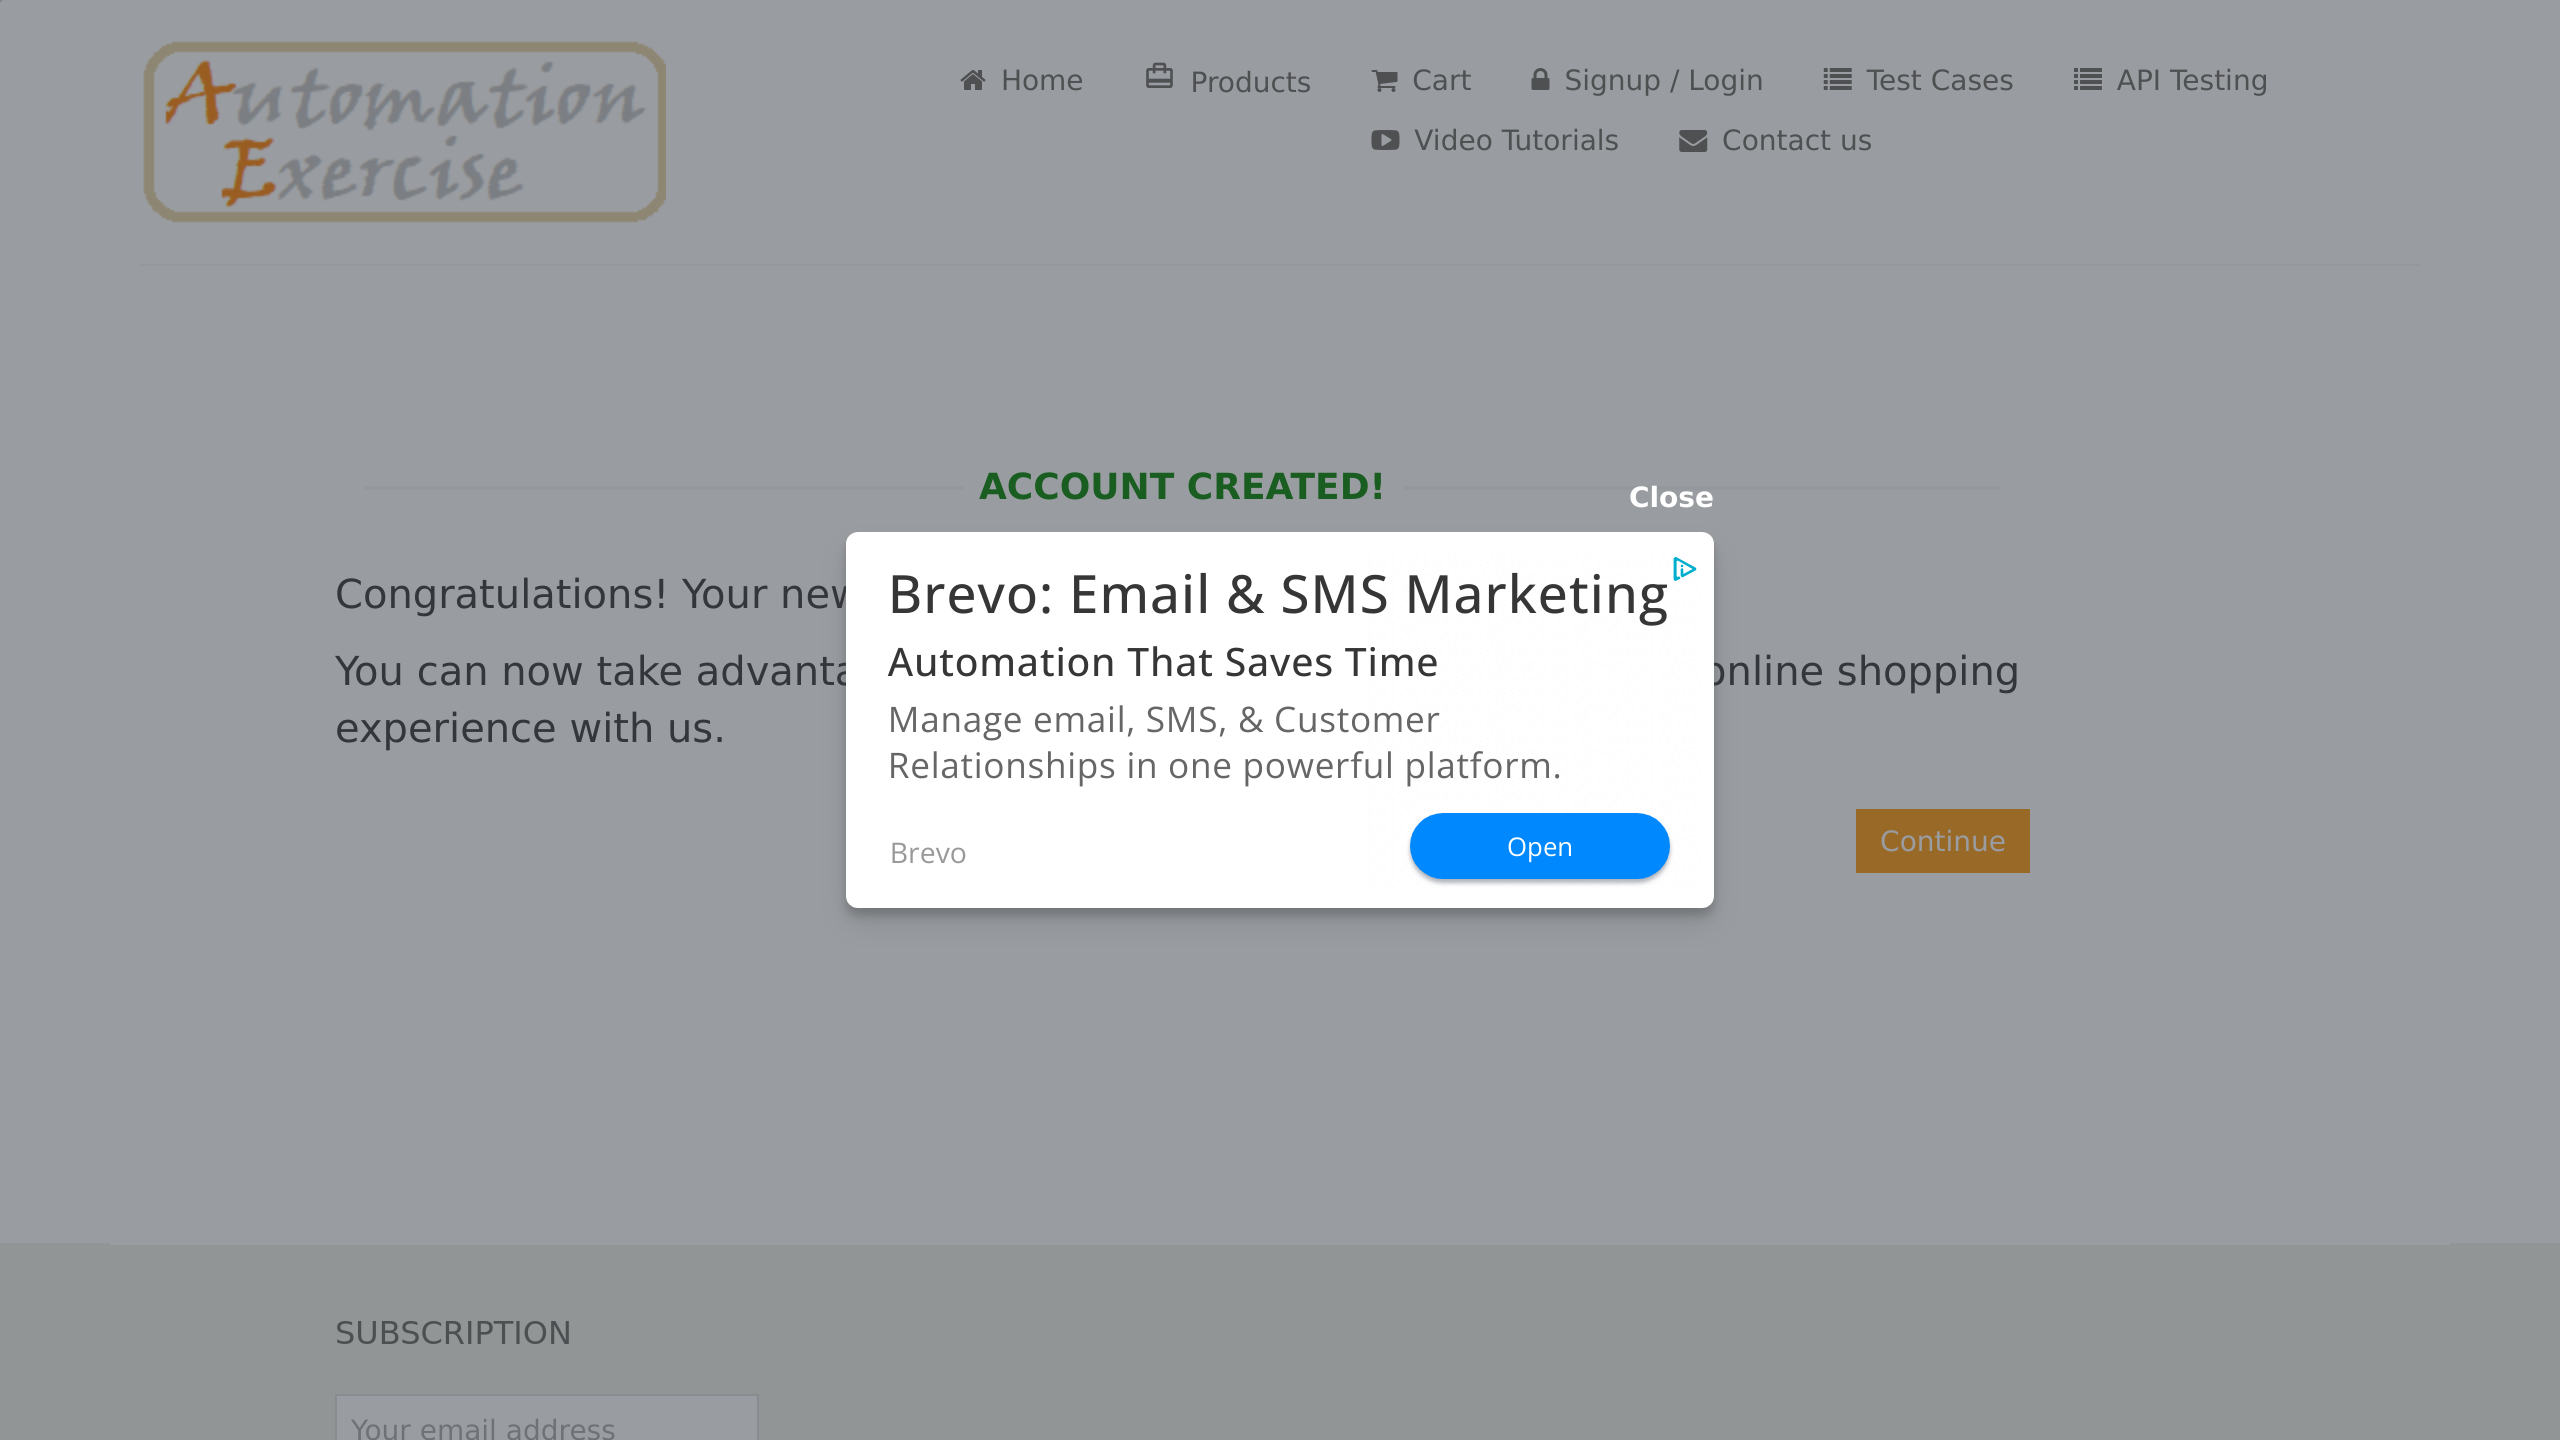
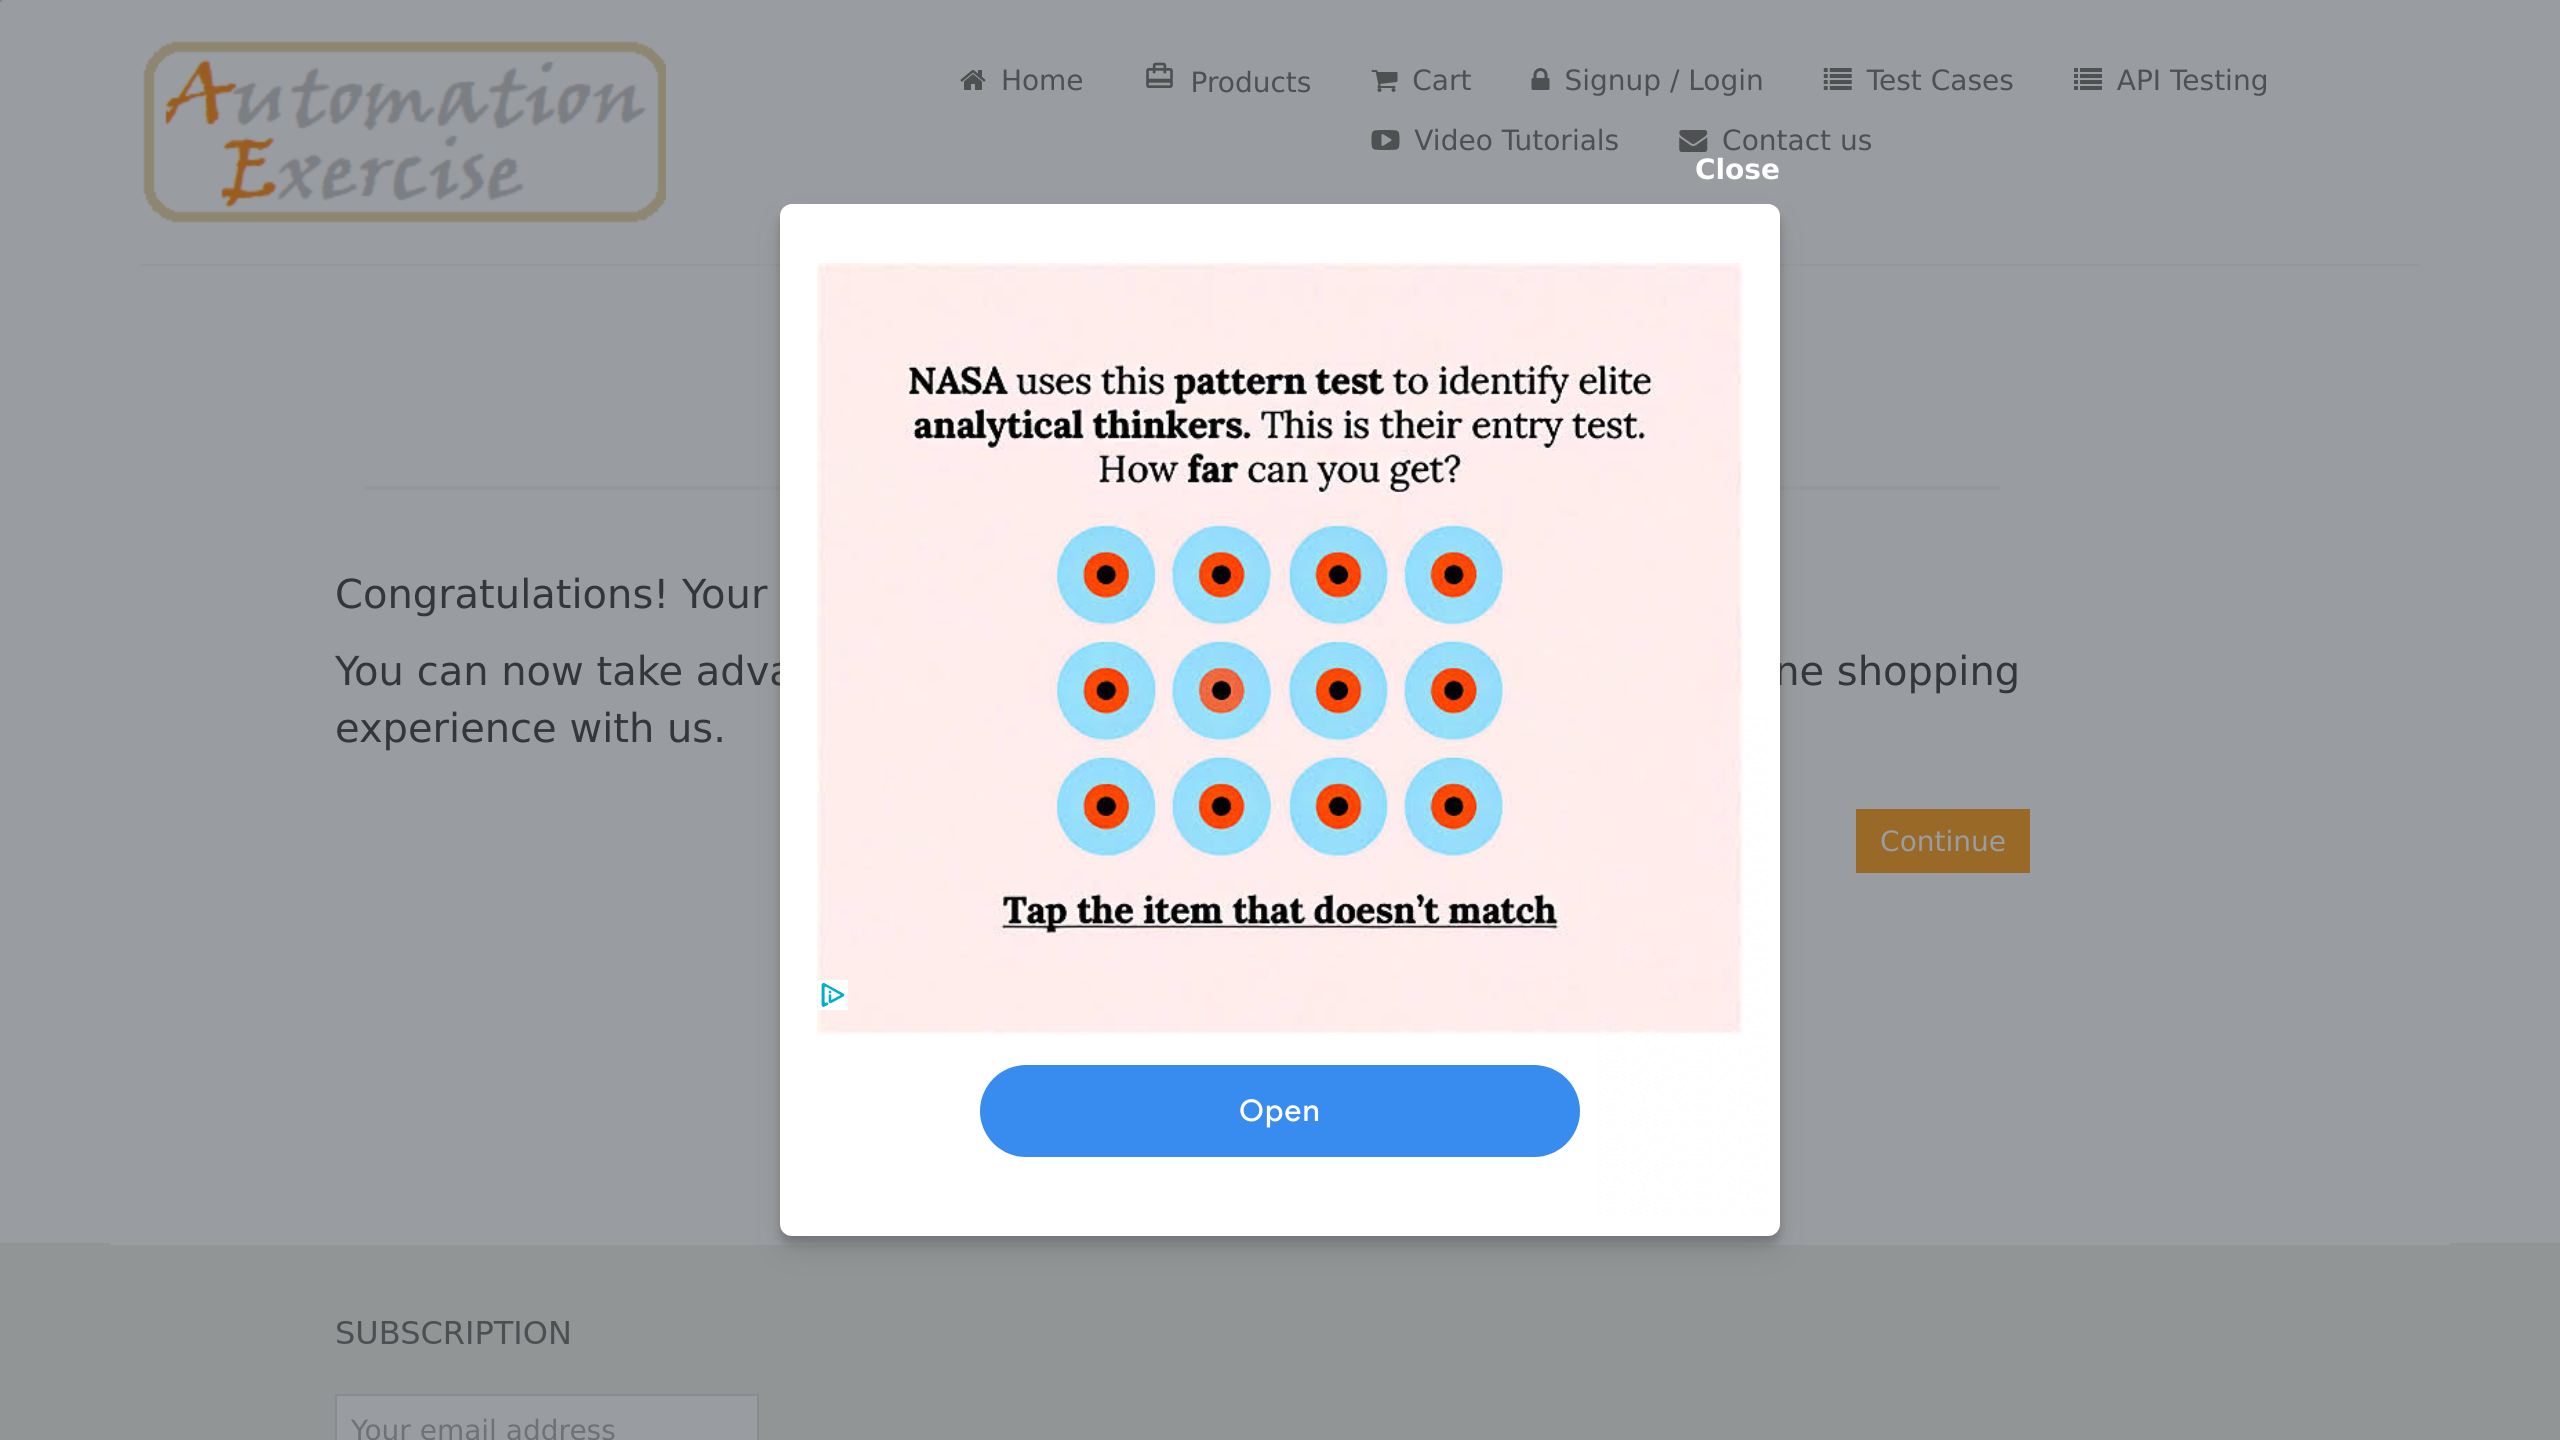
Adding products and signup/login functions

Changed region(s): [[0.2812, 0.0938, 0.7188, 0.875]]

diff --git a/pages/homePage.ts b/pages/homePage.ts
@@ -12,4 +12,13 @@ export class HomePage {
         await this.page.click('text=View Cart');
     }
 
+    async clickSignUpLogin(){
+        await this.page.click('text= Signup / Login');
+
+    }
+    
+    async navigateToProducts(){
+        await this.page.click('text= Products');
+
+    }
 }
